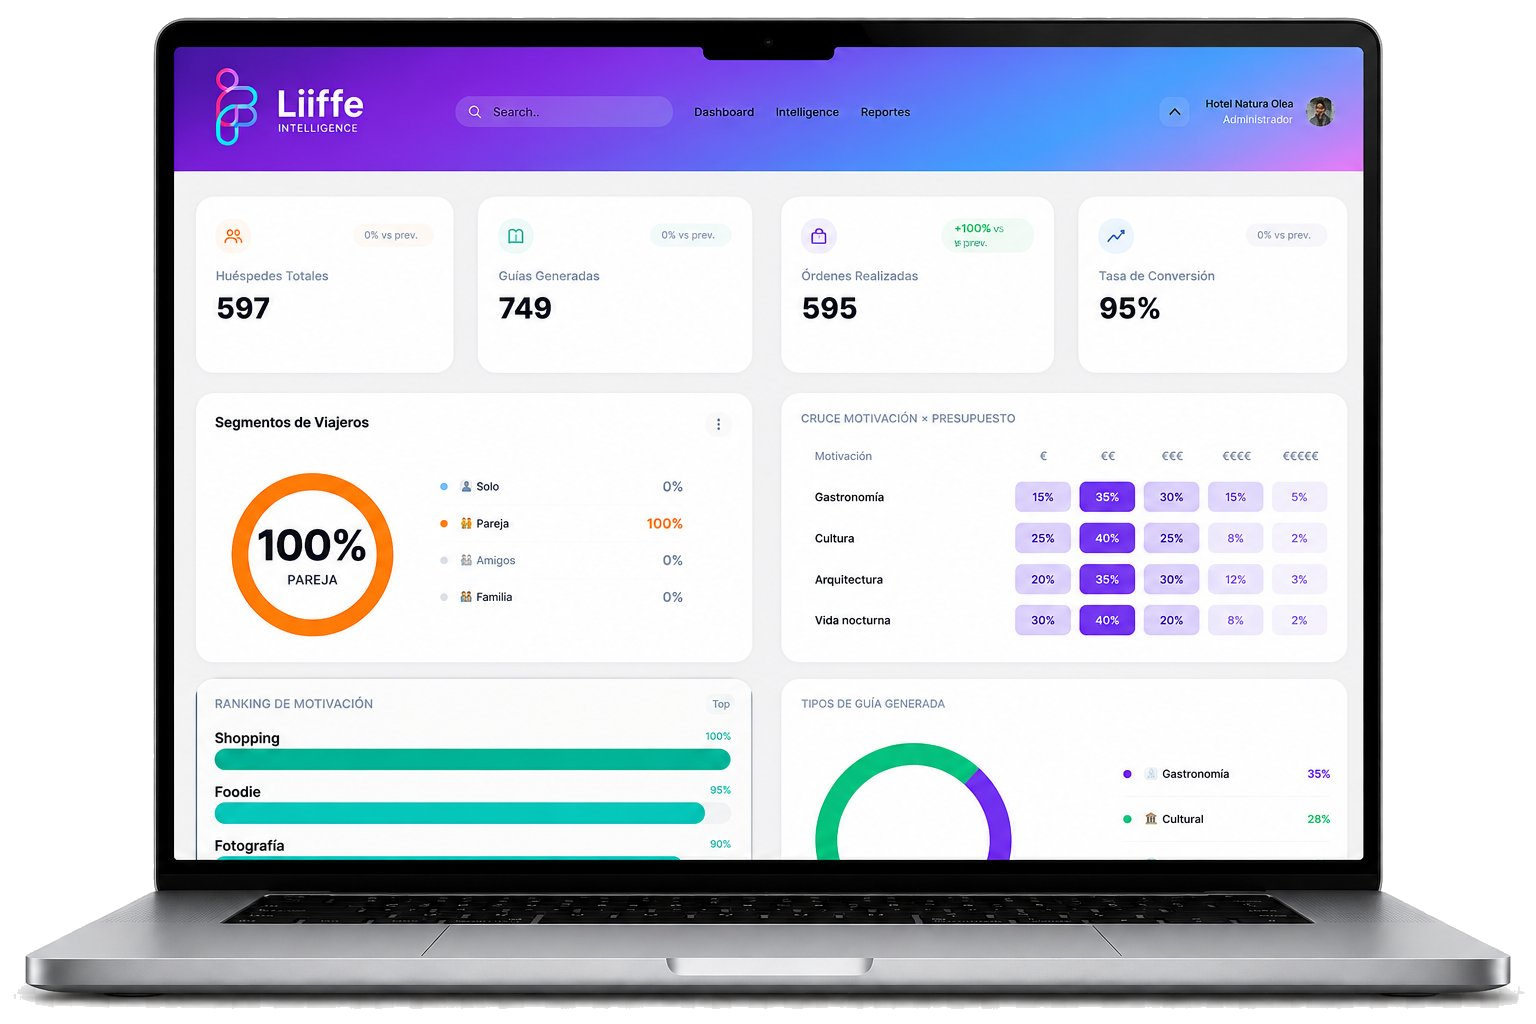
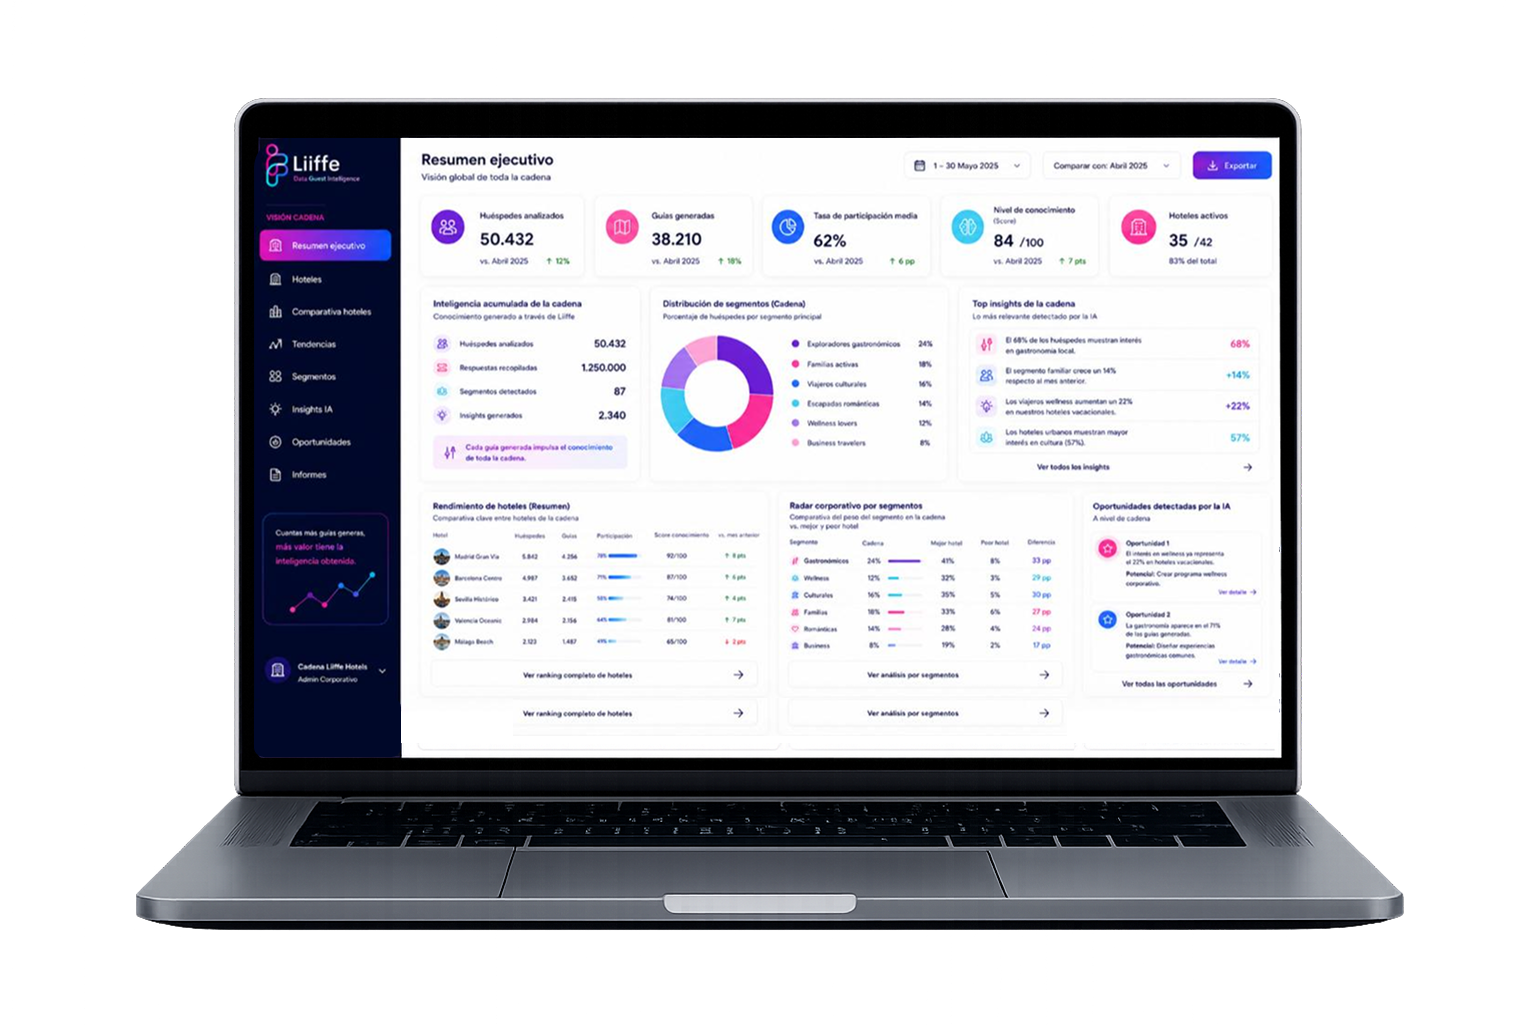
mobile responsive fixes

diff --git a/src/app/globals.css b/src/app/globals.css
@@ -114,22 +114,25 @@ nav {
 .hero {
   min-height: 100vh;
   background: 
-  linear-gradient(to right, white 30%, transparent 65%),
-  url('/hero image.png') center/cover no-repeat;
+    linear-gradient(to right, rgba(255,255,255,0.95) 35%, rgba(255,255,255,0.4) 65%, transparent 120%),
+    url('/hero image.png') center/cover no-repeat;
   display: grid;
   grid-template-columns: 1fr 1fr;
+  grid-template-rows: 1fr auto;
   align-items: center;
   gap: 40px;
-  padding: 160px 60px 60px;
+  padding: 120px 60px 40px;
   position: relative;
   overflow: hidden;
 }
 
 .hero-right {
+  grid-column: 2;
+  grid-row: 1 / 3;
   display: flex;
   align-items: center;
   justify-content: center;
-  transform: translateY(-60px) scale(0.92) translateX(-100px);
+  transform: translateY(-40px) scale(1.12) translateX(-50px);
 }
 
 .hero-devices {
@@ -137,10 +140,15 @@ nav {
   width: 100%;
 }
 
+.hero-clients {
+  grid-column: 1;
+  grid-row: 2;
+}
+
 .hero-mobile {
   position: absolute;
-  bottom: 20px;
-  right: -30px;
+  bottom: 50px;
+  right: -10px;
   width: 150px;
   height: auto;
 }
@@ -168,9 +176,8 @@ nav {
 }
 
 .hero-left {
-  max-width: 680px;
-  position: relative;
-  z-index: 1;
+  grid-column: 1;
+  grid-row: 1;
 }
 
 .hero-left h1 {
@@ -193,6 +200,12 @@ nav {
   margin-bottom: 40px;
   max-width: 400px;
 } 
+
+.hero-devices {
+  position: relative;
+  width: 100%;
+  max-width: 100%;
+}
 
 .hero-btns {
   display: flex;
@@ -261,30 +274,30 @@ nav {
 }
 
 .hero-clients-label {
-  font-size: 12px;
-  color: rgba(255, 255, 255, 0.45);
+  font-size: 13px !important;
+  color: rgba(26,35,64,0.4);
   text-transform: uppercase;
   letter-spacing: 1.5px;
   margin-bottom: 16px;
+  margin-bottom: 12px;
 }
 
 .client-logos {
   display: flex;
-  gap: 28px;
+  gap: 24px;
   align-items: center;
   flex-wrap: wrap;
 }
 
-.client-logo {
-  font-family: 'Montserrat', sans-serif;
-  font-size: 13px;
-  font-weight: 800;
-  color: rgba(31, 26, 48, 0.50);
-  letter-spacing: 2px;
-  transition: color 0.2s;
+.client-logos img {
+  height: 32px !important;
+  width: auto !important;
+  object-fit: contain;
 }
 
-.client-logo:hover { color: rgba(235, 150, 208, 0.6); }
+.hero-btn-mobile { display: none; }
+
+.client-logo:hover { color: rgba(97, 71, 89, 0.6); }
 
 /* ── SECTION 2: CONOCES A TU HUÉSPED ── */
 .section-guest-new {
@@ -914,86 +927,82 @@ footer {
   nav { padding: 16px 30px; }
   .nav-links { display: none; }
 
-  .hero { padding: 100px 30px 60px; }
-  .hero-left h1 { font-size: 48px; }
+  .hero {
+    grid-template-columns: 1fr;
+    grid-template-rows: auto;
+    padding: 120px 24px 40px;
+    text-align: center;
+    overflow: hidden;
+  }
 
-  .section-guest { padding: 60px 30px; grid-template-columns: 1fr; }
+  .hero-left { grid-column: 1; grid-row: 1; }
+  .hero-right {
+    grid-column: 1;
+    grid-row: 2;
+    transform: scale(0.5);
+    margin-top: -100px;
+    margin-bottom: -140px;
+    overflow: hidden;
+  }
+
+  .hero-clients { grid-column: 1; grid-row: 4; }
+  .hero-left h1 { font-size: 28px;  letter-spacing: -1px; }
+  .hero-left p { margin: 0 auto 24px; }
+   .hero-btns {
+    justify-content: center;
+    grid-column: 1;
+    grid-row: 3;
+    order: 3;
+  }
+
+  .hero-btns-desktop { display: none; }
+  .hero-btn-mobile {
+    display: flex;
+    justify-content: center;
+    grid-column: 1;
+    grid-row: 3;
+  }
+  .hero-right {
+    grid-column: 1;
+    grid-row: 2;
+    transform: scale(0.55);
+    margin-top: -80px;
+    margin-bottom: -120px;
+  }
+  .hero-clients {
+    grid-column: 1;
+    grid-row: 4;
+  }
+
+  .hero-clients-label { font-size: 10px; text-align: center; }
+  .client-logos {
+    gap: 12px;
+    display: grid;
+    grid-template-columns: 1fr 1fr;
+    justify-items: center;
+  }
+  .client-logos img { height: 24px !important; }
+
+  .section-guest { padding: 60px 30px; }
   .section-combo { padding: 60px 30px; }
-  .results-grid { grid-template-columns: repeat(3, 1fr); }
-
-  .section-packages { padding: 60px 30px; }
-  .packages-grid { grid-template-columns: repeat(2, 1fr); }
-
-  .section-types { padding: 60px 30px; }
-  .types-grid { grid-template-columns: repeat(3, 1fr); }
-
-  .section-cta { padding: 60px 30px; }
-  .cta-banner { grid-template-columns: 1fr; }
-  .cta-left h2 { font-size: 32px; }
-
-  footer { padding: 20px 30px; }
-}
-
-@media (max-width: 640px) {
-  .hero-left h1 { font-size: 36px; }
-  .hero-btns { flex-direction: column; align-items: flex-start; }
-
-  .section-guest .left h2 { font-size: 32px; }
-  .results-grid { grid-template-columns: repeat(2, 1fr); }
-
-  .packages-grid { grid-template-columns: 1fr; }
-  .types-grid { grid-template-columns: repeat(2, 1fr); }
-
-  .combo-flow { flex-direction: column; gap: 16px; }
-  .combo-plus, .combo-equals { transform: rotate(90deg); }
-}
-
-@media (max-width: 768px) {
-
-  /* Combo section */
   .combo-desktop { display: none; }
   .combo-mobile { display: block; }
+  .results-grid { grid-template-columns: repeat(2, 1fr); }
 
-  /* Packages */
-  .packages-grid {
-    grid-template-columns: 1fr;
-  }
+  .section-packages { padding: 60px 30px; }
+  .packages-grid { grid-template-columns: 1fr; }
+  .packages-header img { display: none; }
+  .packages-header { justify-content: center; }
+  .packages-header h2 { text-align: center; font-size: 28px; }
+  .packages-sub { text-align: center; margin-left: 0; }
 
-  /* Packages header */
-  .packages-header img {
-    display: none;
-  }
+  .section-types { padding: 60px 30px; }
+  .types-grid { grid-template-columns: repeat(2, 1fr); }
 
-  .packages-header {
-    justify-content: center;
-  }
+  .section-cta { padding: 60px 30px; }
+  .cta-banner { grid-template-columns: 1fr; text-align: center; }
+  .cta-right { align-items: center; }
+  .cta-left h2 { font-size: 28px; }
 
-  .packages-header h2 {
-    text-align: center;
-    font-size: 32px;
-  }
-
-  .packages-sub {
-    text-align: center;
-    margin-left: 0;
-  }
-
-  /* Types */
-  .types-grid {
-    grid-template-columns: repeat(2, 1fr);
-  }
-
-  /* CTA */
-  .cta-banner {
-    grid-template-columns: 1fr;
-    text-align: center;
-  }
-
-  .cta-right {
-    align-items: center;
-  }
-
-  .cta-left h2 {
-    font-size: 28px;
-  }
+  footer { padding: 20px 30px; }
 }

diff --git a/src/components/Hero.tsx b/src/components/Hero.tsx
@@ -1,6 +1,5 @@
 import Image from 'next/image'
 
-
 export default function Hero() {
   return (
     <section className="hero" id="inicio">
@@ -15,36 +14,43 @@ export default function Hero() {
           Conoce a cada huésped antes de su llegada y transforma cada estancia en una
           oportunidad para generar más valor, satisfacción y revenue.
         </p>
-        <div className="hero-btns">
+        <div className="hero-btns hero-btns-desktop">
           <button className="btn-primary">Solicitar demo →</button>
-          <button className="btn-secondary">
-            <div className="play-icon" />
-            Ver cómo funciona
-          </button>
-        </div>
-        <p className="hero-clients-label">Más de 300 alojamientos ya confían en Liiffe</p>
-        <div className="client-logos">
-          {['MELIÁ', 'RIU', 'Barceló', 'ESTIVAL', 'CALEIA'].map((name) => (
-            <span key={name} className="client-logo">{name}</span>
-          ))}
         </div>
       </div>
+
       <div className="hero-right">
-        <Image
-          src="/liiffe_dashboard_nobg.png"
-          alt="Liiffe Dashboard"
-          width={700}
-          height={500}
-          style={{ width: '100%', height: 'auto' }}
-        />
-      <Image
-      src="/Mobile.png"
-      alt="Liiffe Mobile"
-      width={100}
-      height={220}
-      className="hero-mobile"
-    />
-  </div>
+        <div className="hero-devices">
+          <Image
+            src="/liiffe_dashboard_nobg.png"
+            alt="Liiffe Dashboard"
+            width={700}
+            height={500}
+            style={{ width: '100%', height: 'auto' }}
+          />
+          <Image
+            src="/Mobile.png"
+            alt="Liiffe Mobile"
+            width={100}
+            height={220}
+            className="hero-mobile"
+          />
+        </div>
+      </div>
+
+      <div className="hero-btn-mobile">
+        <button className="btn-primary">Solicitar demo →</button>
+      </div>
+
+      <div className="hero-clients">
+        <p className="hero-clients-label">Más de 300 alojamientos ya confían en Liiffe</p>
+        <div className="client-logos">
+          <Image src="/logo marsenses.png" alt="Marsenses" width={120} height={40} style={{ objectFit: 'contain', filter: 'grayscale(100%) opacity(0.6)', mixBlendMode: 'multiply' }} />
+          <Image src="/logo intercontinental.avif" alt="Intercontinental" width={120} height={40} style={{ objectFit: 'contain', filter: 'grayscale(100%) opacity(0.6)', mixBlendMode: 'multiply' }} />
+          <Image src="/logo vibra colombia.avif" alt="Vibra Colombia" width={120} height={40} style={{ objectFit: 'contain', filter: 'grayscale(100%) opacity(0.6)', mixBlendMode: 'multiply' }} />
+          <Image src="/logo asohost.avif" alt="Asohost" width={120} height={40} style={{ objectFit: 'contain', filter: 'grayscale(100%) opacity(0.6)', mixBlendMode: 'multiply' }} />
+        </div>
+      </div>
     </section>
   )
 }
